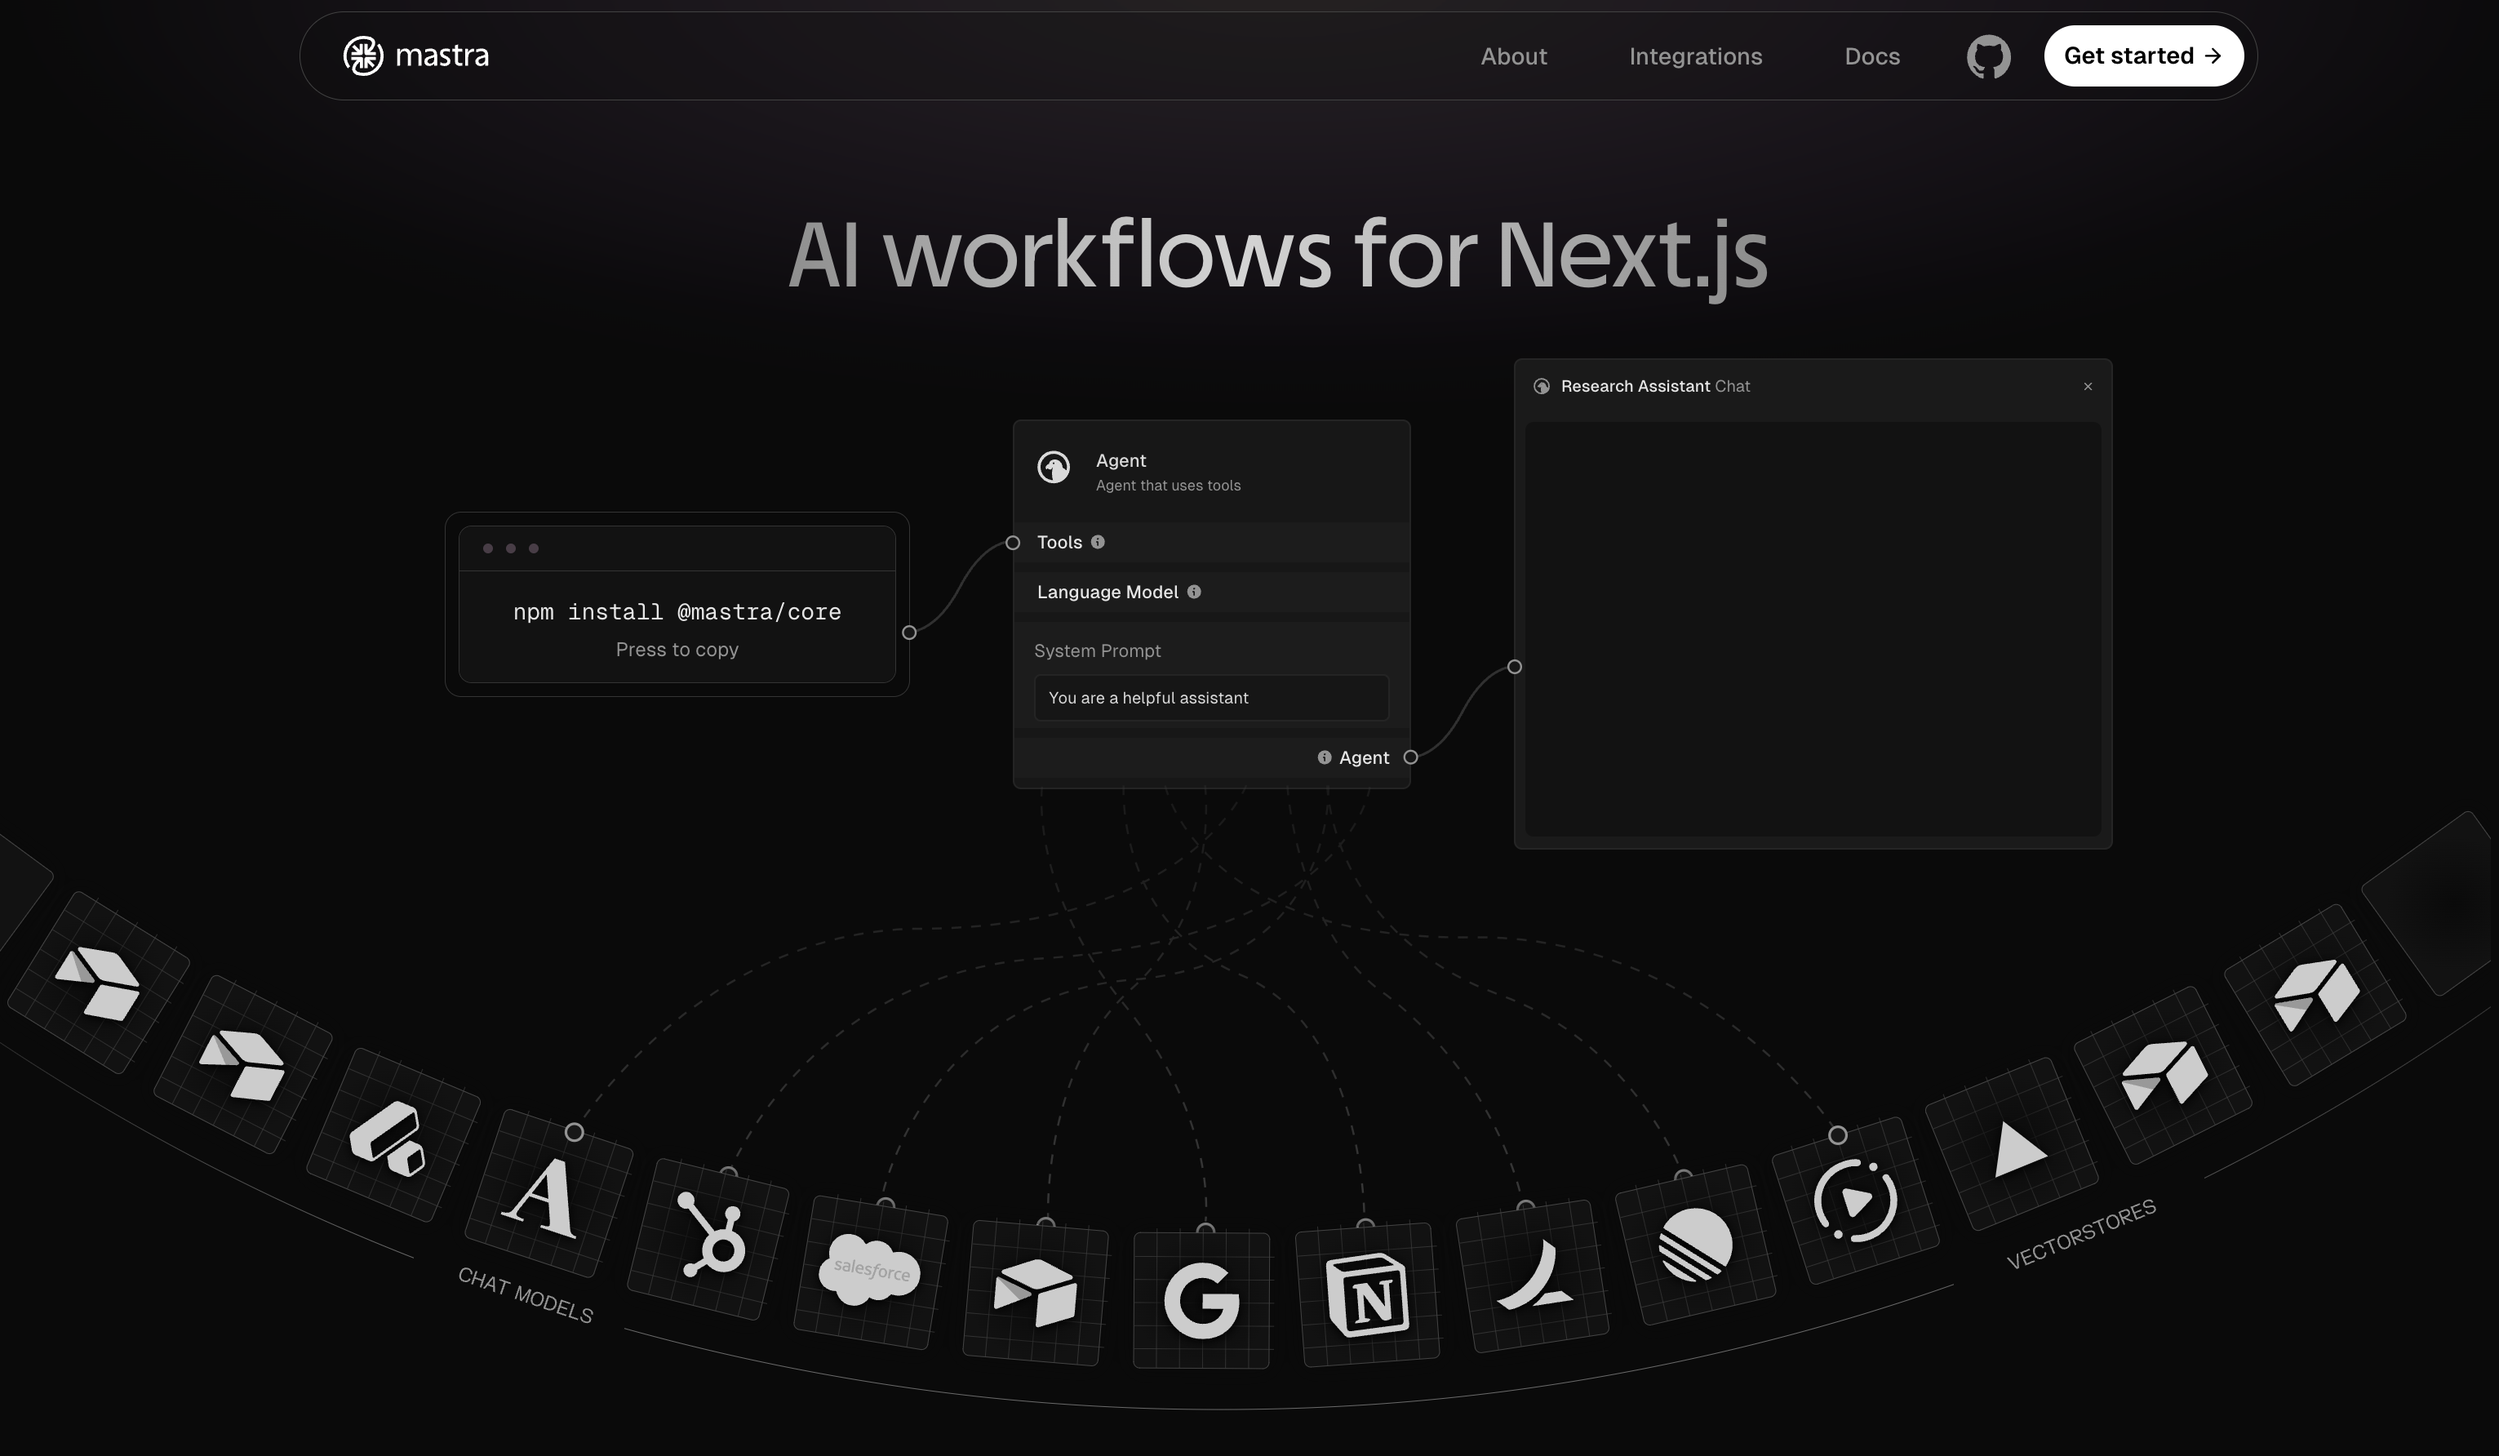
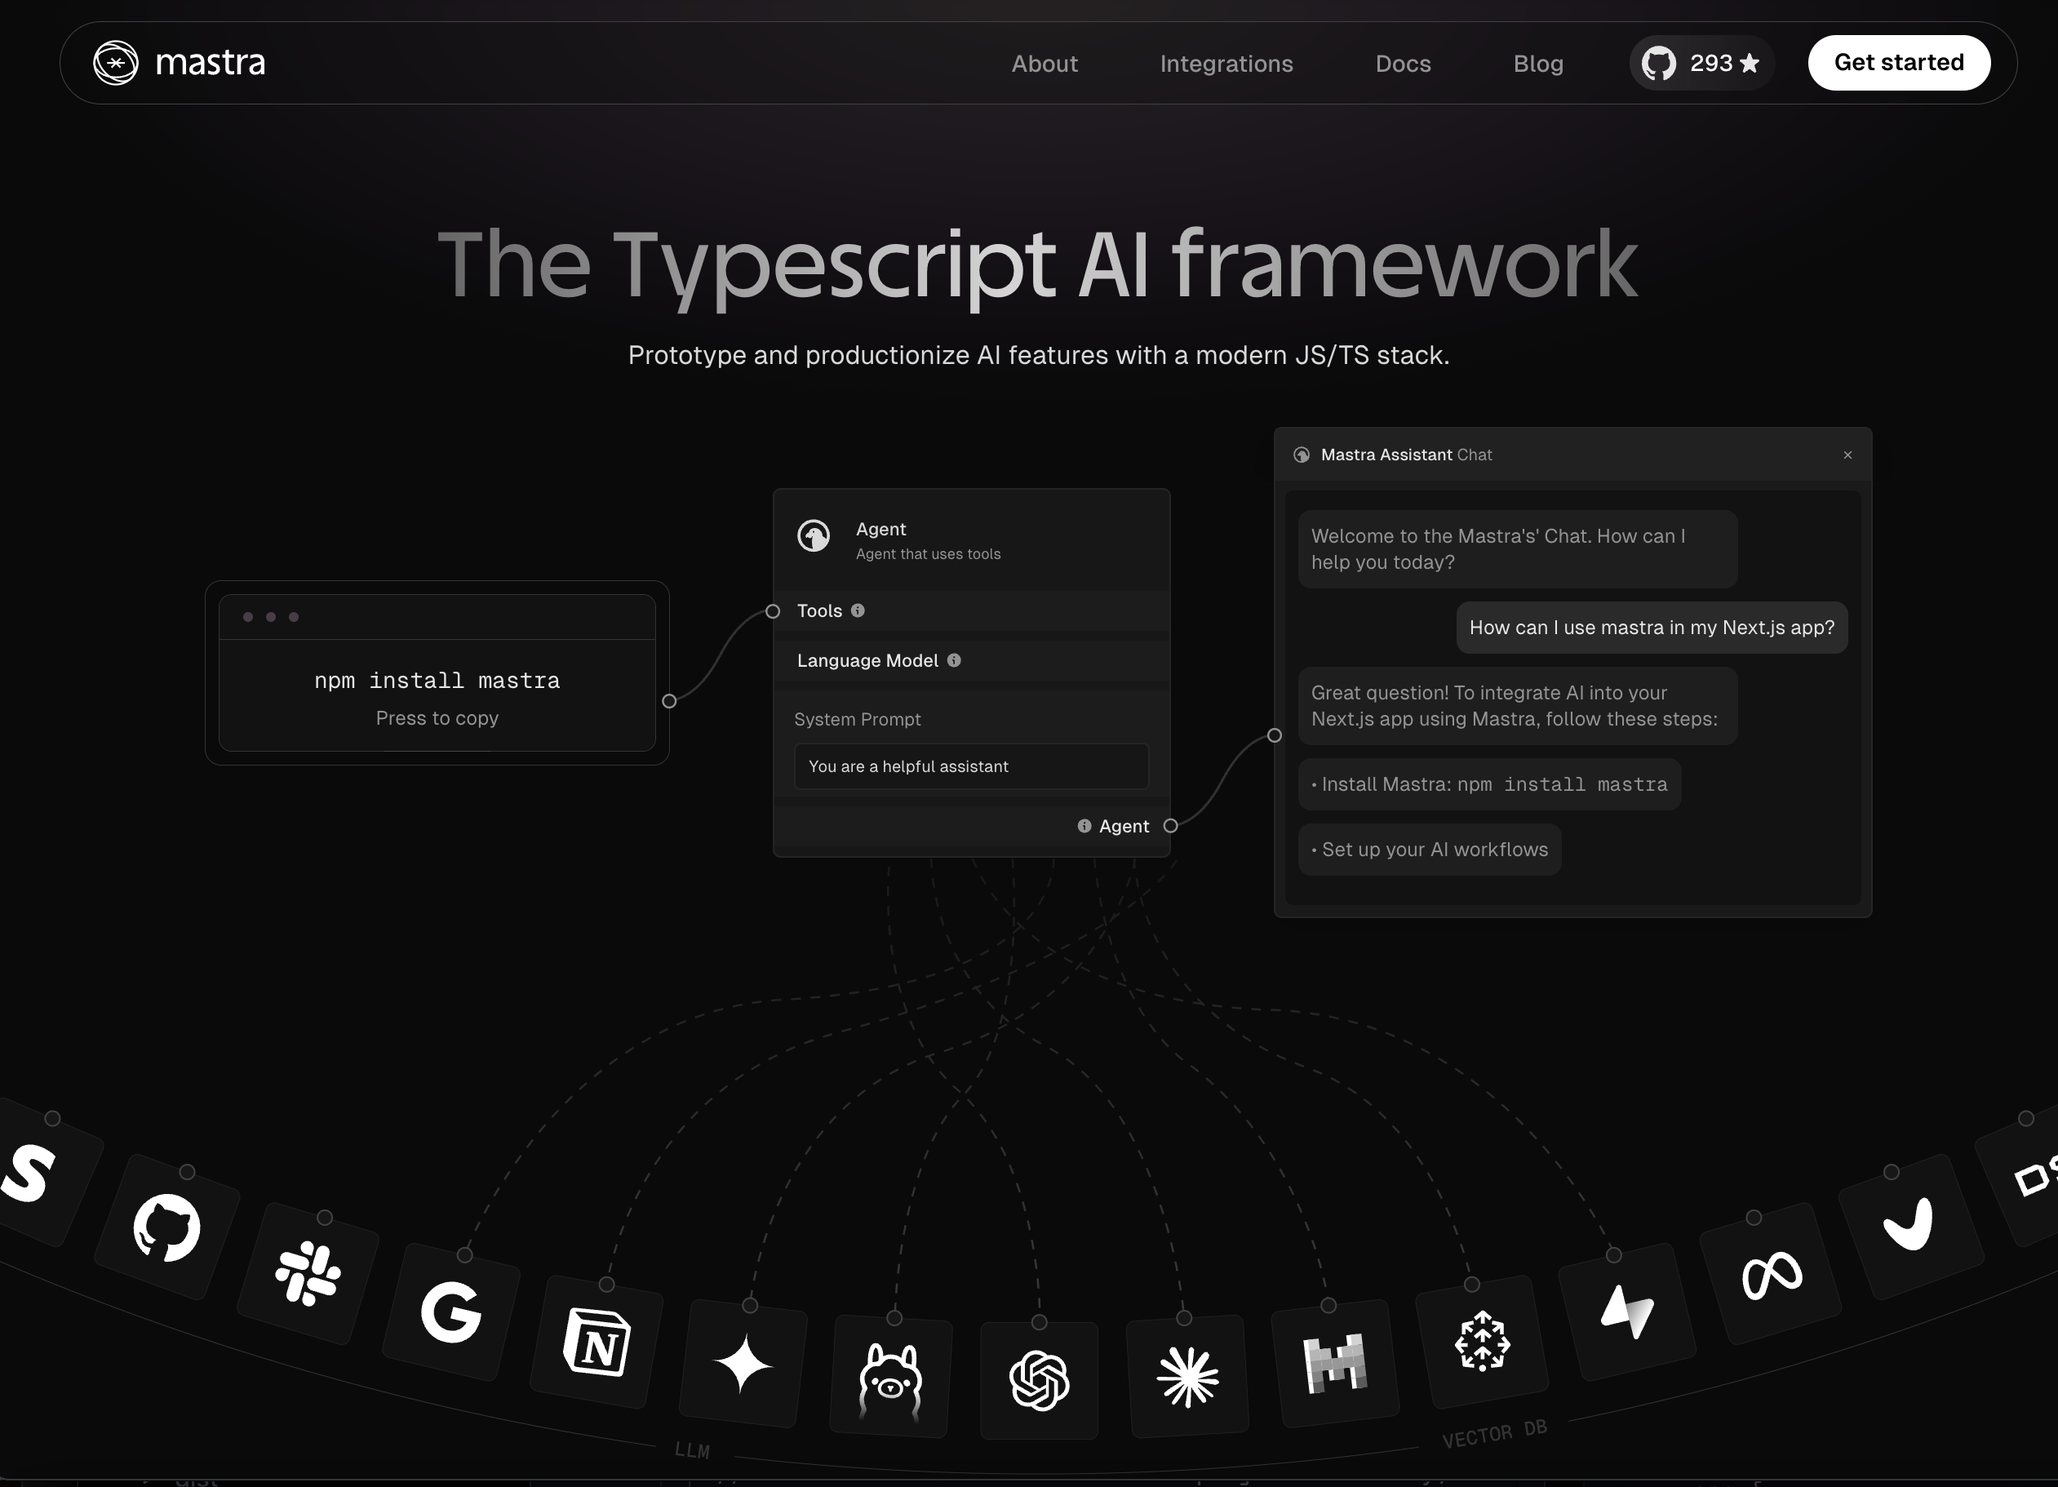
new stuff

diff --git a/README.md b/README.md
@@ -1,61 +1,94 @@
-# Mastra Framework
+# Mastra
 
 [![Mastra framework homepage](mastra-homepage.png)](https://mastra.ai)
 
-Mastra lets you prototype and productionize AI features quickly with a modern JS/TS stack.
+Mastra is an opinionated Typescript framework that helps you build AI applications and features quickly. It gives you the set of primitives you need: workflows, agents, RAG, integrations, syncs and evals. You can run Mastra on your local machine, or deploy to a serverless cloud.
 
-- **Workflows**: Chain calls to OpenAI, Anthropic, Google. Pipe output between steps. Create graphs with `workflow.addStep()` and `step.connect()`.
-- **RAG pipeline**: Sync data into a vector DB (Pinecone). Mastra integrates with 50+ SaaS services, web scrapers, etc.
-- **Agents**: provide LLM models with tools, workflows, and synced data.
+The main Mastra features are:
 
-Mastra uses Inngest and Prisma to store and sync data into vector databases. It includes an admin panel for exploring data, a playground for testing actions, a chat UI for agents, and a visual workflow builder with variables, conditions, and branching.
-
-The setup is completely self- contained and runs on your local machine. In production, you can self-host or deploy to Vercel/Netlify.
+Features|Description
+--------|--------
+[LLM Models](https://mastra.ai/docs/guide/how-to/00-llm-models) | Mastra supports a variety of LLM providers, including OpenAI, Anthropic, Google Gemini. You can choose the specific model and provider, choose system and user prompts, and decide whether to stream the response.
+[Agents](https://mastra.ai/docs/guide/how-to/01-creating-agents) | Agents are systems where the language model chooses a sequence of actions. In Mastra, agents provide LLM models with tools, workflows, and synced data. Agents can call your own functions or APIs of third-party integrations and access knowledge bases you build.
+[Tools](https://mastra.ai/docs/guide/how-to/02-adding-tools) | Tools are typed functions that can be executed by agents or workflows, with built-in integration access and parameter validation. Each tool has a schema that defines its inputs, an executor function that implements its logic, and access to configured integrations.
+[Workflows](https://mastra.ai/docs/guide/how-to/03-building-workflows) | Workflows are durable graph-based state machines. They have loops, branching, wait for human input, embed other workflows, do error handling, retries, parsing and so on. They can be built in code or with a visual editor. Each step in a workflow has built-in OpenTelemetry tracing. 
+[RAG](https://mastra.ai/docs/guide/how-to/04-knowledge-sources) | Retrieval-augemented generation (RAG) lets you construct a knowledge base for agents. RAG is an ETL pipeline with specific querying techniques, including chunking, embedding, and vector search.
+[Integrations & Syncs](https://mastra.ai/docs/guide/how-to/05-adding-integrations) | In Mastra, syncs are async functions that can be deployed as background tasks across different execution environments. Integrations are auto-generated, type-safe API clients for third-party services that can be used as tools for agents or steps in workflows. 
+[Evals](https://mastra.ai/docs/guide/how-to/06-running-evals) | Evals are automated tests that evaluate LLM outputs using model-graded, rule-based, and statistical methods. Each eval returns a normalized score between 0-1 that can be logged and compared. Evals can be customized with your own prompts and scoring functions.
 
 ## Quick Start
 
 ### Prerequisites
 
-- Node.js (version 20 or later)
-- Docker (the daemon should be running)
+- Node.js (v20.0+)
 
-### Installation
+## Get an LLM provider API key
 
-1. Install the Mastra CLI:
+If you don't have an API key for an LLM provider, you can get one from the following services:
 
-```bash
-$ npm install -g mastra
+- [OpenAI](https://platform.openai.com/)
+- [Anthropic](https://console.anthropic.com/settings/keys)
+- [Google Gemini](https://ai.google.dev/gemini-api/docs)
+
+If you don't have an account with these providers, you can sign up and get an API key. OpenAI and Anthropic require a credit card to get an API key. Gemini does not and has a generous free tier for its API.
+
+## Create a new project
+
+As a first step, create a project directory and navigate into it:
+
+```bash copy
+mkdir hello-mastra
+cd hello-mastra
 ```
 
-2. Add the core package
+Next, initialize a TypeScript project using npm:
 
-```bash
-npm install @mastra/core
+```bash copy npm2yarn
+npm init -y
+npm install typescript tsx @types/node @mastra/core@alpha --save-dev
 ```
 
-3. Initialize your project:
+### Add an index.ts file
 
 ```bash
-$ mastra init
+mkdir src
+touch src/index.ts
 ```
 
-4. Provision local resources:
+Then, add this code to `src/index.ts`:
 
-```bash
-$ Enter your PostgreSQL connection string (postgresql://username:password@host:port/database) or press Enter to create a new instance:
-$ Enter your Inngest server URL or press Enter to create a new instance:
+```typescript
+import { Agent } from '@mastra/core';
+
+async function main() {
+  const agent = new Agent({
+    name: 'story-writer',
+    maxSteps: 3,
+    model: {
+      provider: 'OPEN_AI_VERCEL',
+      name: 'gpt-4o',
+      toolChoice: 'auto'
+    },
+    instructions: `You are a helpful assistant who writes creative stories.`,
+    tools: {},
+  });
+
+  const result = await agent.text({
+    messages: ["Write a short story about a robot learning to paint."]
+  });
+
+  console.log("Agent response:", result.text);
+}
+
+main();
 ```
 
-## Configuration
+### Run the script
 
-After initialization, you'll find an `mastra.config.ts` file in your project root. You can find the full list of configuration options in the [Mastra config docs](./docs/src/pages/reference/mastra-config.mdx) and a reference of the files Mastra owns in the [Local File Structure docs](./docs/src/pages/reference/local-project-structure.mdx).
+Finally, run the script:
 
-## Deployment
+```bash copy
+OPENAI_API_KEY=<your-openai-api-key> npx tsx src/index.ts
+```
 
-Mastra's data syncing infrastructure is designed for Next.js sites running on serverless hosting providers like Vercel or Netlify.
-
-Job queues are managed with [Inngest](https://inngest.com/), which can be self-hosted or run as a managed service.
-
-Logs can be configured to be written to the console, written to the filesystem, or stored in [Upstash](https://upstash.com/).
-
-[Full deployment docs](./docs/src/pages/reference/mastra-config.mdx) here.
+If you're using Anthropic, set the `ANTHROPIC_API_KEY`. If you're using Gemini, set the `GOOGLE_GENERATIVE_AI_API_KEY`.
